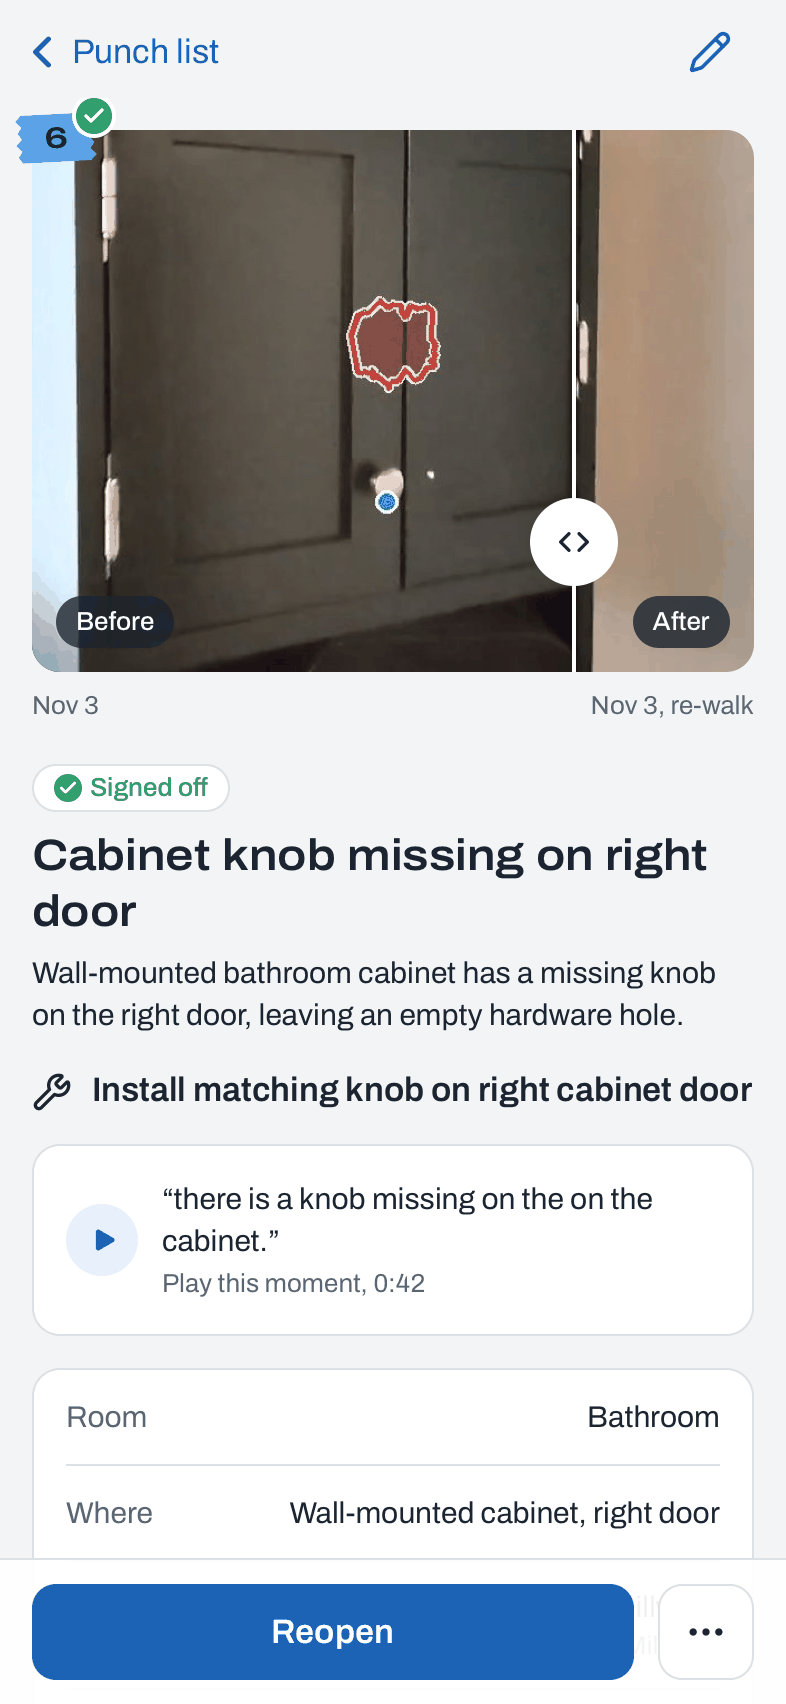
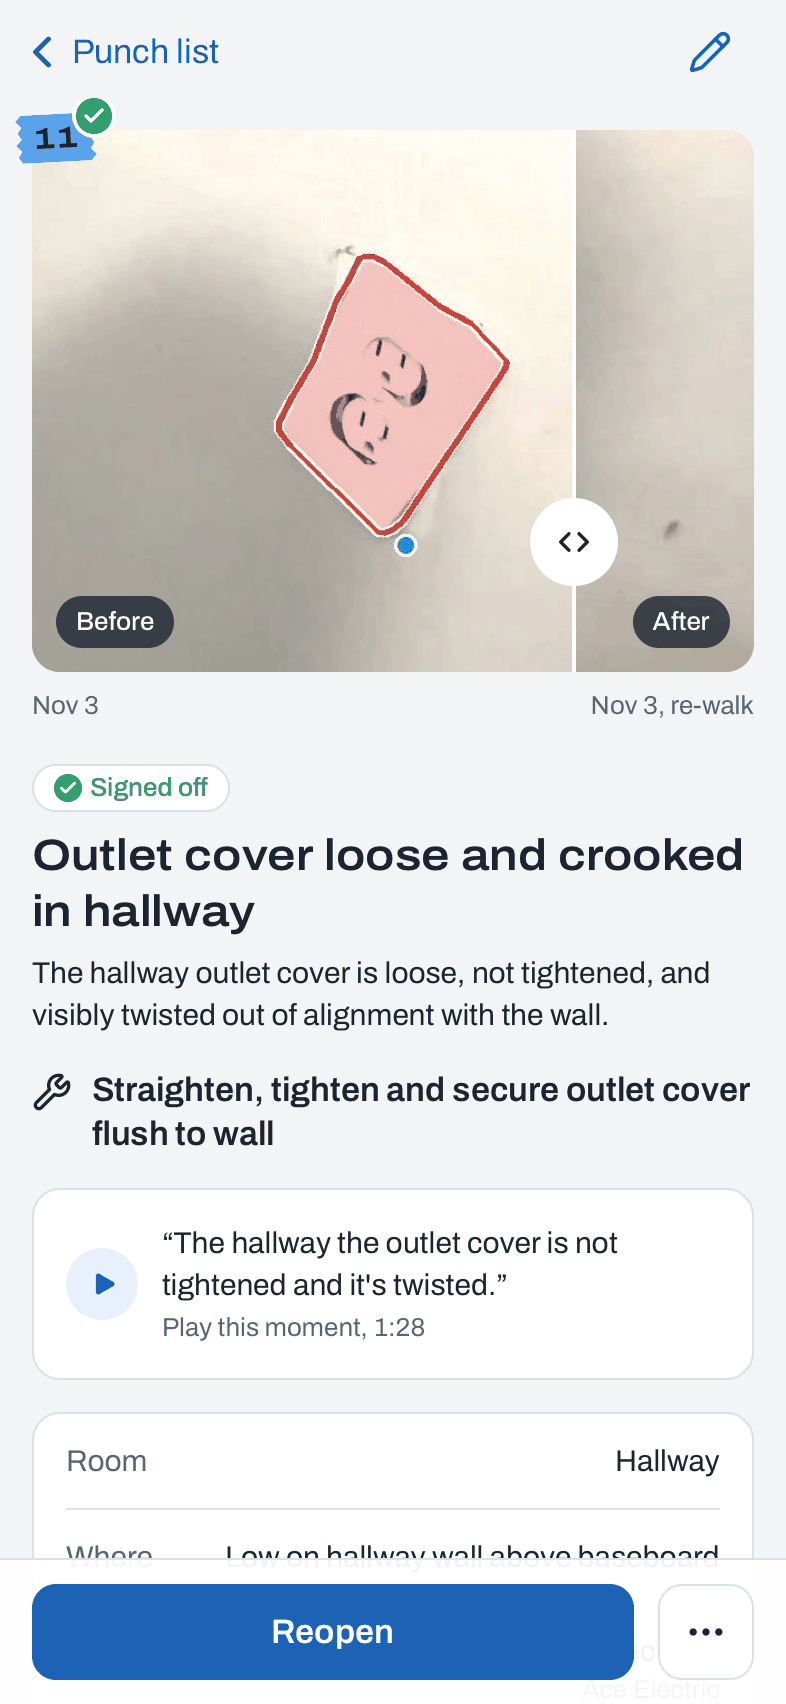
docs: README item-detail screenshot recaptured from the final seed (#011 outlet)

diff --git a/docs/screens/README.md b/docs/screens/README.md
@@ -9,7 +9,7 @@ produced.
 | File | Screen | Data |
 |---|---|---|
 | `01-punch-list.png` | Punch list, To do: Needs a look first, then rooms | real |
-| `02-item-detail.png` | Item 6, cabinet knob: before/after slider, the action, the inspector's quote, details | real |
+| `02-item-detail.png` | Item 11, outlet cover loose and crooked: before/after slider (red outline + blue dot on the before photo), the action, the inspector's quote, details | real |
 | `03-play-this-moment.png` | Play this moment, mid-play: hand outlined, tab 6 at the fingertip, quote as caption | real |
 | `04-walk-detail.png` | First walk, mid-play at item 6: hand outline + tab, the "New" card over the video | real |
 | `05-record-processing-mock.png` | Record: the live processing checklist mid-run | **mock** (no walk is processing in the real data) |
